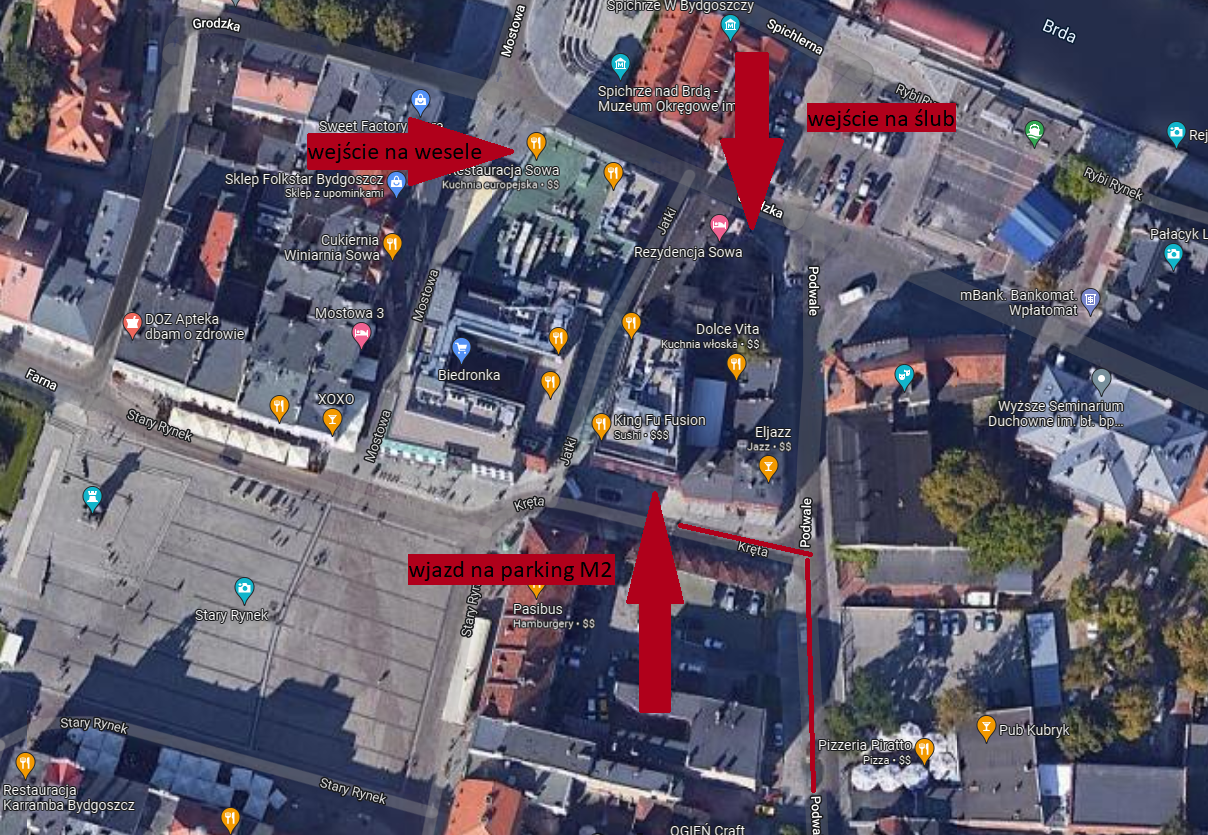
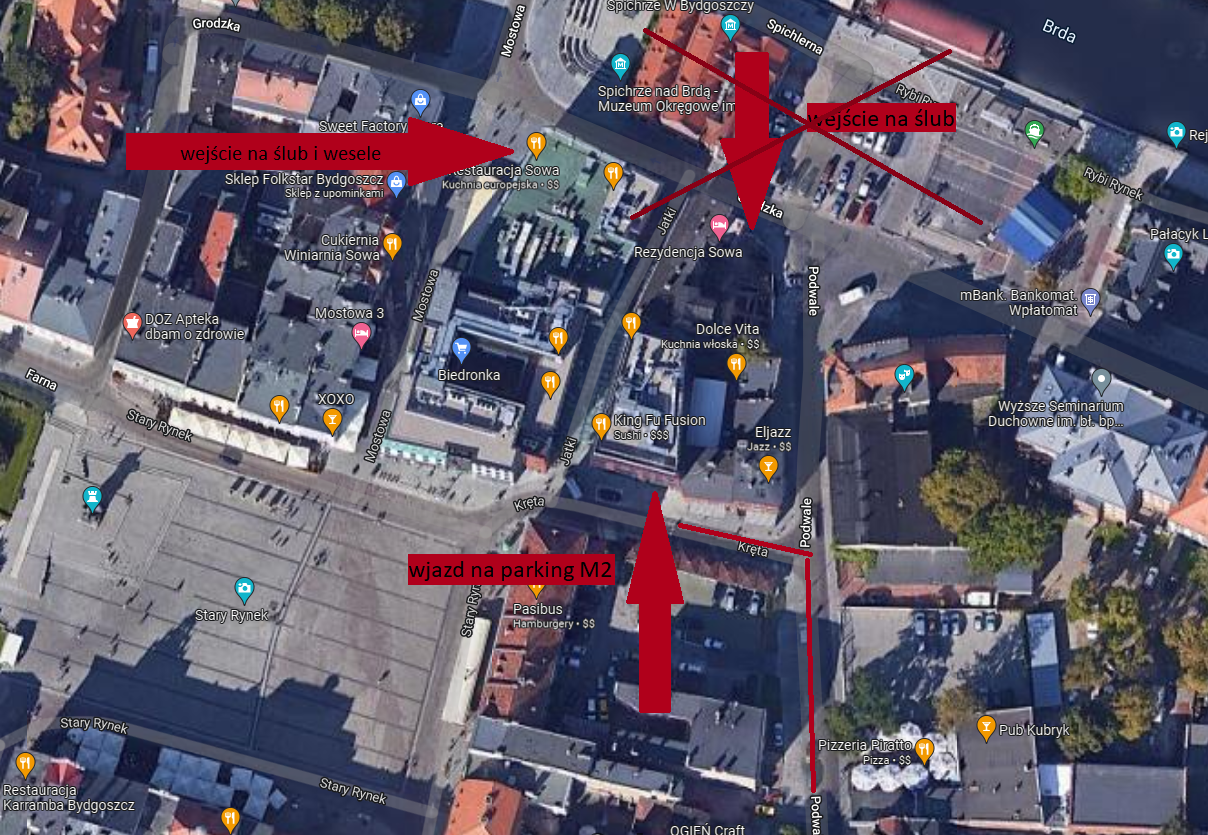
ceremony place change

diff --git a/index.html b/index.html
@@ -64,9 +64,9 @@
 					<a name="miejsce"></a>
 					<h2>Ślub i przyjęcie weselne</h2>
 					<div class="wedding_info">
-						<div class="wedding_date"><p><i class="gretting_icon fa fa-calendar-day fa-2x" ></i></p><h3>Przyjęcie</h3><h5>21 maja 2022</h5><p>Tego dnia zapraszamy na nasz ślub na tarasie, a następnie na przycięcie weselne w Restauracji Sowa. </br>Jest możliwość zaparkowania samochodu w parkingu podziemnym restauracji (wjazd od ulicy Krętej, obok bramy jest domofon, którym można się zgłosić). Na tym parkingu mogą parkować tylko pojazdy bez instalacji gazowej. Jest również opcja zaparkowania na parkingu publicznym, w weekendy parking taki jest bezpłatny.</p></div>
-						<div class="wedding_place"><p><i class="gretting_icon fa fa-heart fa-2x"></i></p><h3>Ceremonia zaślubin</h3><h5>18:00</h5><p>Taras widokowy Rezydencja Sowa ul. Grodzka 12, wejście obok Restauracji Sowa. W przypadku braku pogody ślub będzie przeniesiony do Restauracji Sowa, informację taką wyślemy SMS-em.</p></div>
-						<div class="wedding_reception"><p><i class="gretting_icon fa fa-champagne-glasses fa-2x"></i></p><h3>Wesele</h3><h5>18:30</h5><p>Odbędzie się w Restauracji Sowa ul. Mostowa 4 Bydgoszcz, w Sali Waniliowej na pierwszym piętrze, schody z lewej strony od wejścia.</p></div>
+						<div class="wedding_date"><p><i class="gretting_icon fa fa-calendar-day fa-2x" ></i></p><h3>Przyjęcie</h3><h5>21 maja 2022</h5><p>Tego dnia zapraszamy na nasz ślub, a następnie na przycięcie weselne w Restauracji Sowa. </br>Jest możliwość zaparkowania samochodu na parkingu podziemnym restauracji (wjazd od ulicy Krętej, obok bramy jest domofon, którym można się zgłosić). Na tym parkingu mogą parkować tylko pojazdy bez instalacji gazowej. Jest również opcja zaparkowania na parkingu publicznym, w weekendy parking taki jest bezpłatny.</p></div>
+						<div class="wedding_place"><p><i class="gretting_icon fa fa-heart fa-2x"></i></p><h3>Ceremonia zaślubin</h3><h5>18:00</h5><p>Nastąpiła zmiana planów w związku z zapowiadanym załamaniem pogody. Ślub odbędzie się w sali obok sali weselnej. Wejście tak jak opisane dla wesela.</p></div>
+						<div class="wedding_reception"><p><i class="gretting_icon fa fa-champagne-glasses fa-2x"></i></p><h3>Wesele</h3><h5>18:30</h5><p>Odbędzie się w Restauracji Sowa ul. Mostowa 4 Bydgoszcz, w Sali Waniliowej na pierwszym piętrze, schody z lewej strony od wejścia do budynku.</p></div>
 					</div>
 					<div class="wedding_tips">
 					<div class="static-map"><img src="map-entrances.png" id="click-map" height="500px" alt="Mapa wejścia na ślub i salę"></div>
